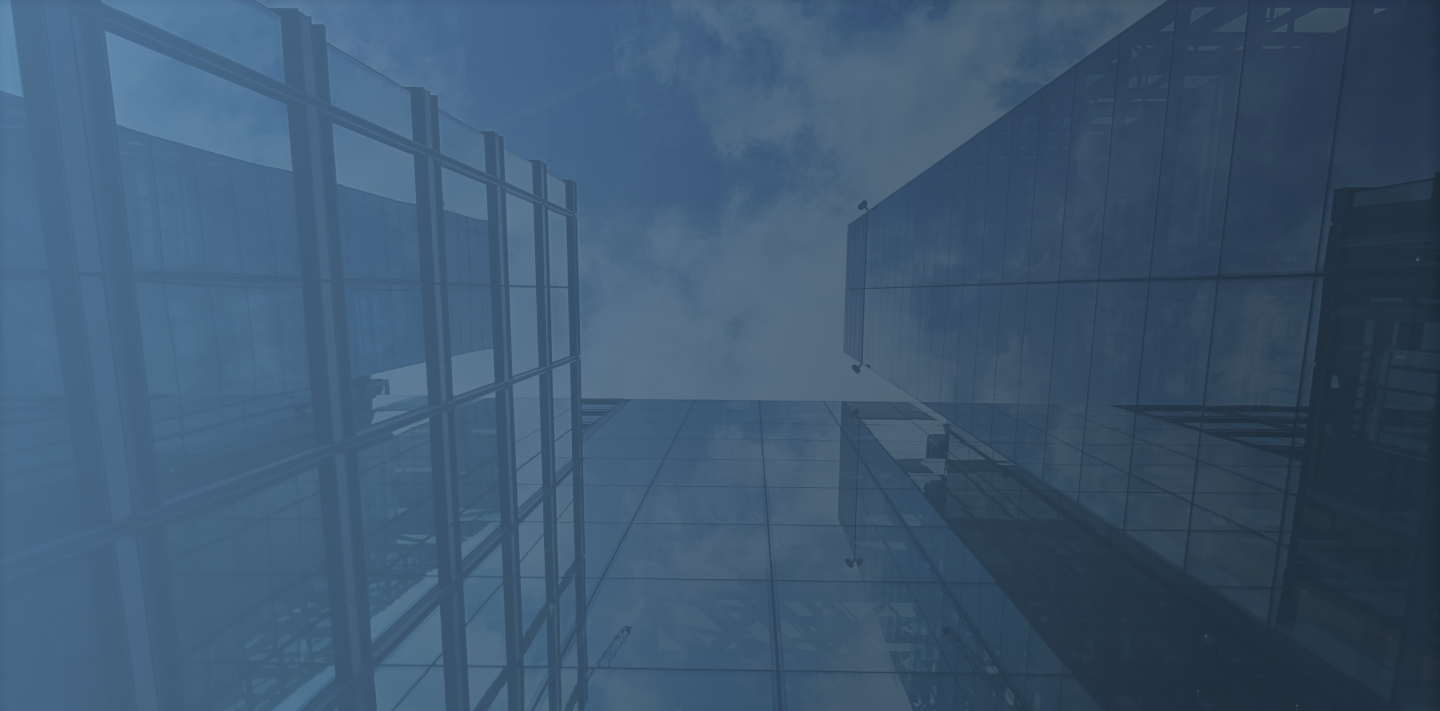
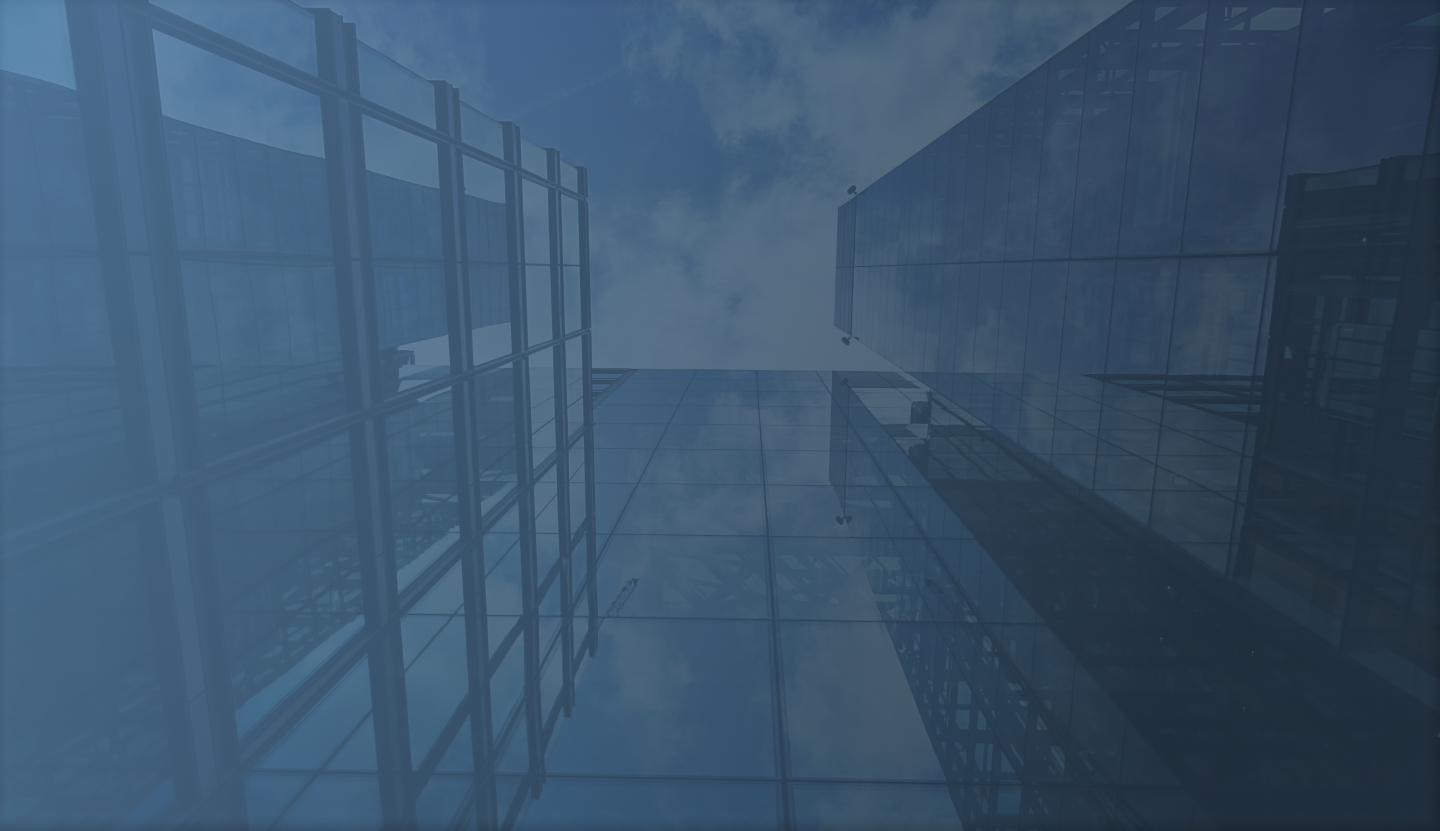
first section viviane-app

diff --git a/src/components/Inicio.jsx b/src/components/Inicio.jsx
@@ -4,24 +4,22 @@ import backgroundInicio from "../assets/backgroundInicio.png"
 
 function Inicio() {
     return (
-        <section className=" w-screen flex flex-col py-[30px] px-[20px] md:flex-row md:justify-center md:gap-15 md:items-center">
-            <img src={backgroundMobile} alt="fundo imagem de prédios" className="absolute top-0 w-screen left-0 z-[-1] md:opacity-0" />
-            <img src={backgroundInicio} alt="fundo prédios" className="absolute top-0 w-screen md:h-full xl:h-auto left-0 z-[-1] md:opacity-100 opacity-0" />
+        <section id="Inicio" className="bg-transparent h-[120vh] mt-[100px] md:mt-0 left-0 w-screen flex flex-col pb-[30px] px-[20px] md:flex-row md:justify-center md:gap-15 md:items-center">
             <div className="text-amber-200">
-                <h1 className="text-[90px] font-Italiana bg-gradient-to-r from-orange-300 from-[2%] to-[50%] to-amber-200 text-shadow-2xs bg-clip-text text-transparent md:text-[110px] md:leading-[100px] lg:text-[150px] leading-[90px] lg:leading-[130px] xl:leading-[147px] font-normal xl:text-[165px]">Viviane <br /> Luiz <br /> Macedo</h1>
+                <h1 className="text-[90px] font-Italiana bg-gradient-to-r from-orange-300 from-[0%] to-[80%] to-amber-200 text-shadow-lg bg-clip-text text-transparent md:text-[110px] md:leading-[100px] lg:text-[150px] leading-[90px] lg:leading-[130px] xl:leading-[150px] font-normal xl:text-[170px]">Viviane <br /> Luiz <br /> Macedo</h1>
             </div>
             <div className=" max-w-[550px] gap-16 max-h-[500px]">
-                <h2 className="bg-gradient-to-r from-amber-200 to-orange-400 text-shadow-2xs bg-clip-text text-transparent text-[20px] tracking-[15px] font-Inter font-semibold lg:text-[30px]">ADVOCACIA</h2>
-                <p className="text-amber-200 text-[17px] lg:text-[19px] w-full mt-[20px] mb-[25px] font-Inika">Compliance estratégico e jurídico para mitigar riscos e impulsionar governança.</p>
-                <p className="text-white w-full text-[16px] font-Inika lg:text-[18px]">Atuação especializada em Direito Empresarial focada na integridade corporativa, prevenção de riscos e conformidade regulatória.</p>
+                <h2 className="bg-gradient-to-r from-amber-200 to-orange-400 bg-clip-text text-transparent text-[20px] tracking-[15px] font-Inter font-semibold lg:text-[35px] text-shadow-lg">ADVOCACIA</h2>
+                <p className="text-amber-200 text-[17px] lg:text-[22px] w-full mt-[20px] mb-[25px] font-Inika">Compliance estratégico e jurídico para mitigar riscos e impulsionar governança.</p>
+                <p className="text-white w-full text-[16px] font-Inika lg:text-[20px]">Atuação especializada em Direito Empresarial focada na integridade corporativa, prevenção de riscos e conformidade regulatória.</p>
                 <div className="md:flex md:justify-between mt-[50px] gap-7 w-full">
-                    <a href="" className="w-full md:w-[50%] mt-[30px] bg-lime-300 flex items-center justify-center h-[60px] text-[16px] text-amber-950 font-light hover:bg-lime-400 transition duration-200">
+                    <a href="https://www.instagram.com/dra.v_luizmacedoadvogada/" target="_blank" className="w-full md:w-[50%] mt-[30px] bg-lime-300 flex items-center justify-center h-[60px] text-[15px] text-amber-950 font-light hover:bg-lime-300/60 hover:border hover:border-lime-300 transition duration-200">
                         <p className="font-Inter">MARQUE UMA REUNIÃO</p>
                         <img src={logoZap} alt="imagem whatsapp" className="w-[30px]" />
                     </a>
 
-                    <a href="" className="w-full md:w-[50%] mt-[30px] bg-transparent border border-amber-200 flex items-center justify-center h-[60px] text-[16px] text-amber-200 font-light hover:bg-amber-200/90 hover:text-amber-950 transition duration-200">
-                        <p className="font-Inter">CURRICULO</p>
+                    <a href="" className="w-full md:w-[50%] mt-[30px] bg-transparent border border-amber-200 flex items-center justify-center h-[60px] text-[15px] text-amber-200 font-light hover:bg-amber-200/90 hover:text-amber-950 transition duration-200">
+                        <p className="font-Inter">HISTÓRICO</p>
                     </a>
                 </div>
 

diff --git a/src/components/Header.jsx b/src/components/Header.jsx
@@ -1,22 +1,40 @@
 import menu from "../assets/menu.png"
 import logoHead from "../assets/logoHead.png"
+import { useEffect, useState } from "react";
 
 function Header() {
+
+    const [scrolled, setScrolled] = useState(false)
+
+    const checkScrollPosition = () => {
+        if (window.scrollY > 80)
+            setScrolled(true)
+        else
+            setScrolled(false)
+    }
+
+    useEffect(() => {
+        window.addEventListener('scroll', checkScrollPosition)
+        return () => {
+            window.removeEventListener('scroll', checkScrollPosition)
+        }
+    })
+
     return (
-        <header className=" w-screen px-[25px] flex justify-between items-center">
+        <header id="Header" className={`fixed transition duration-500 z-5 top-0 w-screen px-[20px] xl:px-[30px] flex justify-between items-center ${scrolled ? 'bg-cyan-950/80 backdrop-blur-sm h-[80px]' : 'bg-transparent h-[100px]'}`}>
             <div className="">
                 <img src={menu} alt="menu" className="w-[27px] cursor-pointer" />
             </div>
             <div className="flex items-center gap-3">
                 <div className=" flex flex-col items-end md:flex-row-reverse">
-                    <a href="" className="text-white font-Inter font-extralight md:pl-[25px] text-[12px] md:text-[15px]">@dra.v_luizmacedoadvogada</a>
-                    <a href="" className="text-white font-Inter font-extralight md:pr-[25px] md:border-r-white md:border-r text-[12px] md:text-[15px]">+55 11 99666-9191</a>
+                    <a href="https://www.instagram.com/dra.v_luizmacedoadvogada/" target="_blank" className="text-white font-Inter font-extralight md:pl-[25px] text-[12px] md:text-[18px]">@dra.v_luizmacedoadvogada</a>
+                    <a href="https://wa.me/+5511996669191" target="_blank" className="text-white font-Inter font-extralight md:pr-[25px] md:border-r-white md:border-r text-[12px] md:text-[18px]">+55 11 99666-9191</a>
                 </div>
                 <div>
 
                 </div>
-                <a href="">
-                    <img src={logoHead} alt="logo" className="w-[80px] h-[80px]" />
+                <a href="#Header">
+                    <img src={logoHead} alt="logo" className={` transition duration-1000 ${scrolled ? 'w-[80px] h-[80px]' : 'w-[100px] h-[100px]'}`} />
                 </a>
             </div>
         </header>

diff --git a/src/App.jsx b/src/App.jsx
@@ -1,16 +1,21 @@
 import { useState } from 'react'
 import Inicio from "../src/components/Inicio.jsx"
 import Header from "../src/components/Header.jsx"
+import backgroundMobile from "./assets/backgroundMobile.png"
+import backgroundInicio from "./assets/backgroundInicio.png"
+import Avaliation from './components/Avaliation.jsx'
 
 
 function App() {
-
   return (
-    <>
-    < Header />
-    < Inicio />
-    </>
+    <div>
+      <img src={backgroundMobile} alt="fundo imagem de prédios" className="absolute top-0 w-screen left-0 z-[-2] md:opacity-0" />
+            <img src={backgroundInicio} alt="fundo prédios" className="absolute top-0 w-screen md:h-full xl:h-auto left-0 z-[-2] md:opacity-100 opacity-0" />
+      < Header />
+      < Inicio />
+      < Avaliation />
+    </div>
   )
 }
 
-export default App
+export default App;

diff --git a/src/components/Avaliation.jsx b/src/components/Avaliation.jsx
@@ -1,6 +1,6 @@
 function Avaliation() {
     return (
-        <section>
+        <section className="bg-white border h-[300px] w-screen">
 
         </section>
     )
